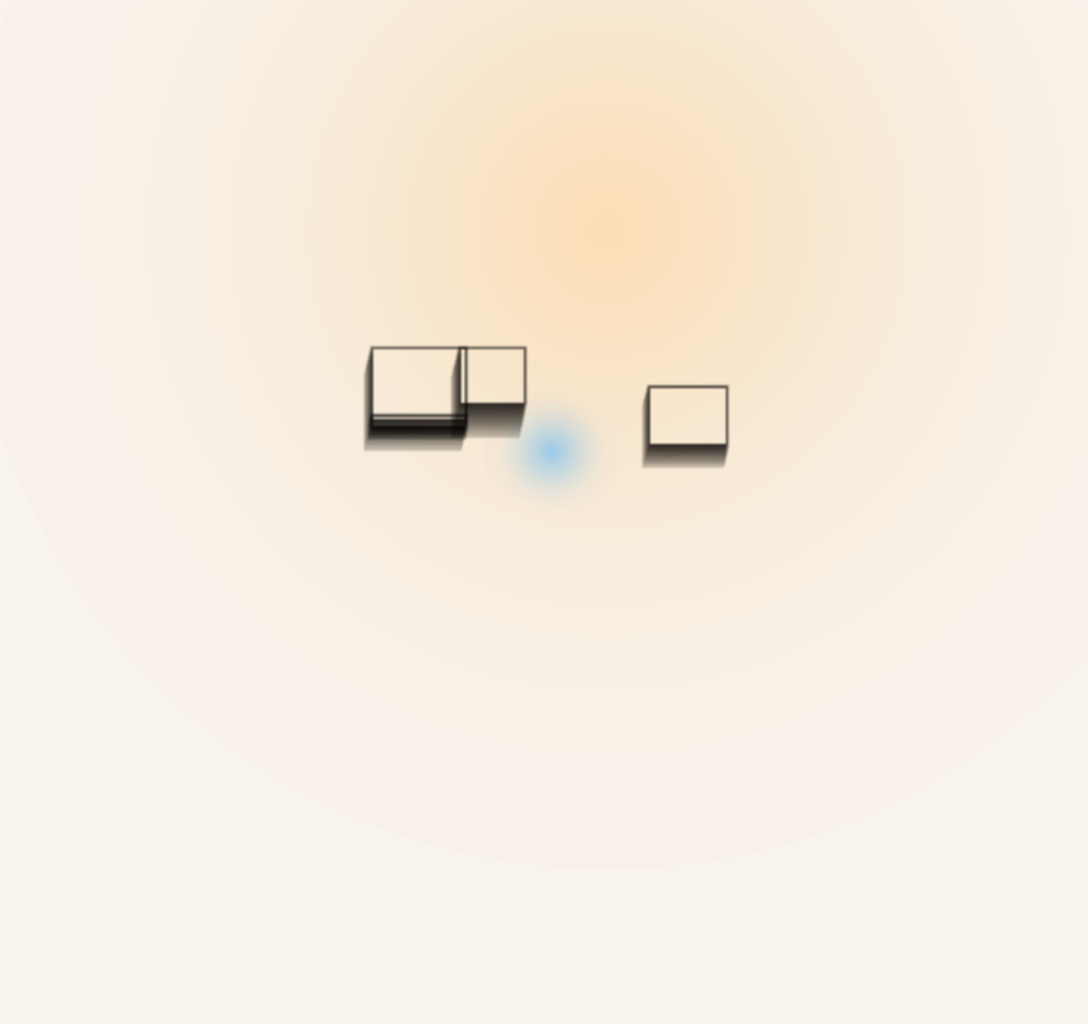
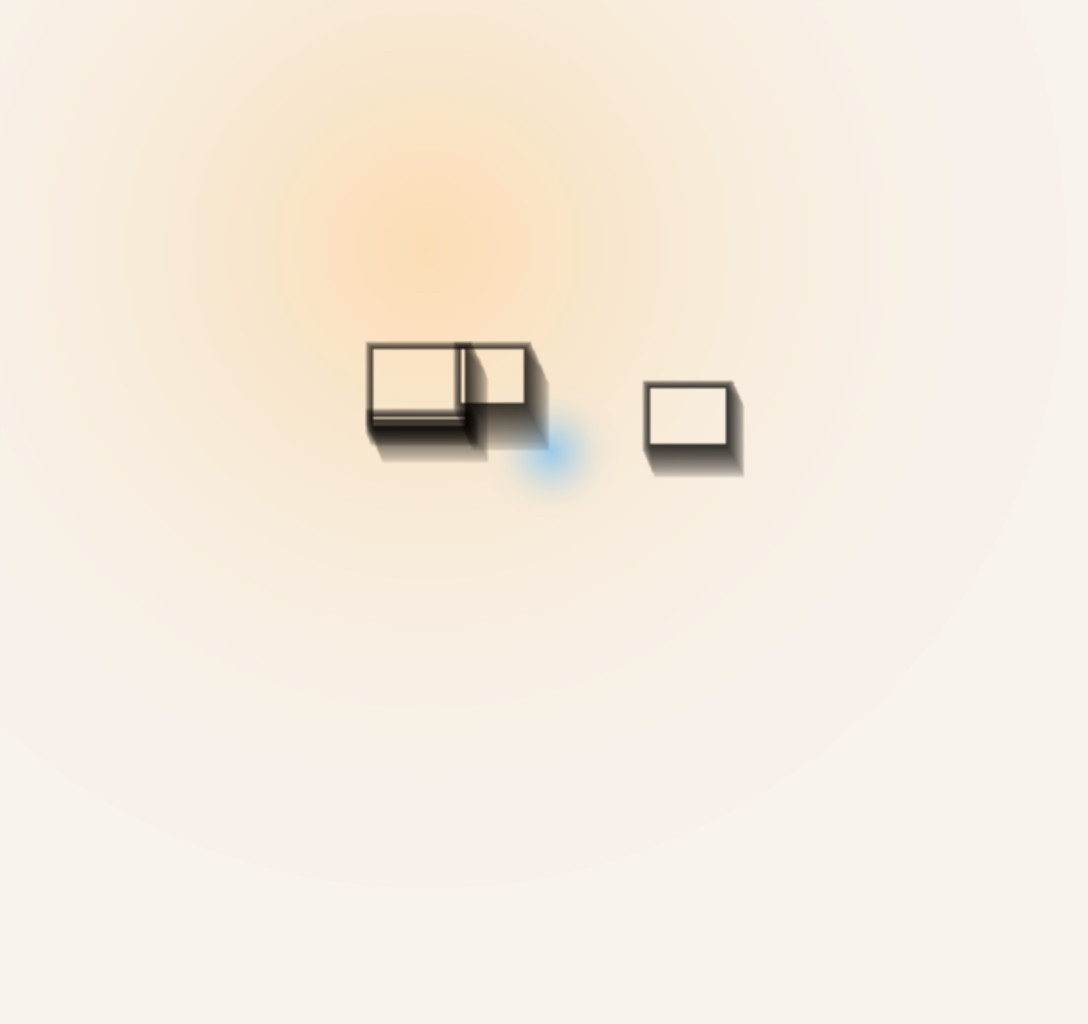
asd

Changed region(s): [[0.3125, 0.3125, 0.5312, 0.4688], [0.5938, 0.375, 0.6875, 0.4688], [0.5938, 0.3438, 0.6562, 0.4062]]

diff --git a/design/hub-bake.md b/design/hub-bake.md
@@ -17,7 +17,7 @@ The hub ships one baked light RT. Offline bake quality is the look lock. Runtime
 - Yard atlas paints a warm sun disc plus a small crystal bump by hand at `HUB_SUB`. Do not send hub through `Stamp.paint`.
 - Cream field `Color(0.98, 0.96, 0.93)` is the floor under the sun, not the finished picture.
 - Building interiors are not written. Lids own their shade and do not sample `light_tex`. Dirt owns the yard.
-- Shadows are the building boxes projected along `away` -X+Z, the same fall as the actor blob. Length is height times 0.55. Edge is feathered, not a hard box. No skirt smear.
+- Shadows use `actor_lit.gd` `SUN_AWAY` `Vector2(0.406138, 0.913811)` and `HUB_STRETCH` 0.72. Do not invent a second sun. Project the live boxes along that fall. Feather the edge. No skirt smear.
 - Finish and save use the same skirt. Then one 3x3 blur.
 - Hall and wing lids are one south-falling shed. WrapShader russet is the lid color, matching the awning red, not the sun disc. Ridge-to-eave wrap uses `shade_lo` at the north ridge and `shade_hi` at the south eave. `shade_hi` stays high enough that the eave is still tile. Tile `uv_scale` uses surface fall length.
 - Stall tarp is a 9x7 cloth with small rumple and one sheet of `plaza_tarp.png`. No lid wrap term on the cloth.

diff --git a/design/changelog/hub-wow-lock.md b/design/changelog/hub-wow-lock.md
@@ -15,5 +15,6 @@
 - Hub shadow fall is -X +Z again, length height times 0.9, so the direction reads.
 - Roof shingles repeat tighter and the sun disc no longer washes the dirt.
 - Hub shadow fall matches the actor blob: mostly +Z, slight -X. Edge is feathered.
+- Hub bake copies actor_lit SUN_AWAY and HUB_STRETCH. No second sun vector.
 
 Summary: Hub look lock is the play frame. Lids do not sample the yard atlas. The scene is not a second town.
